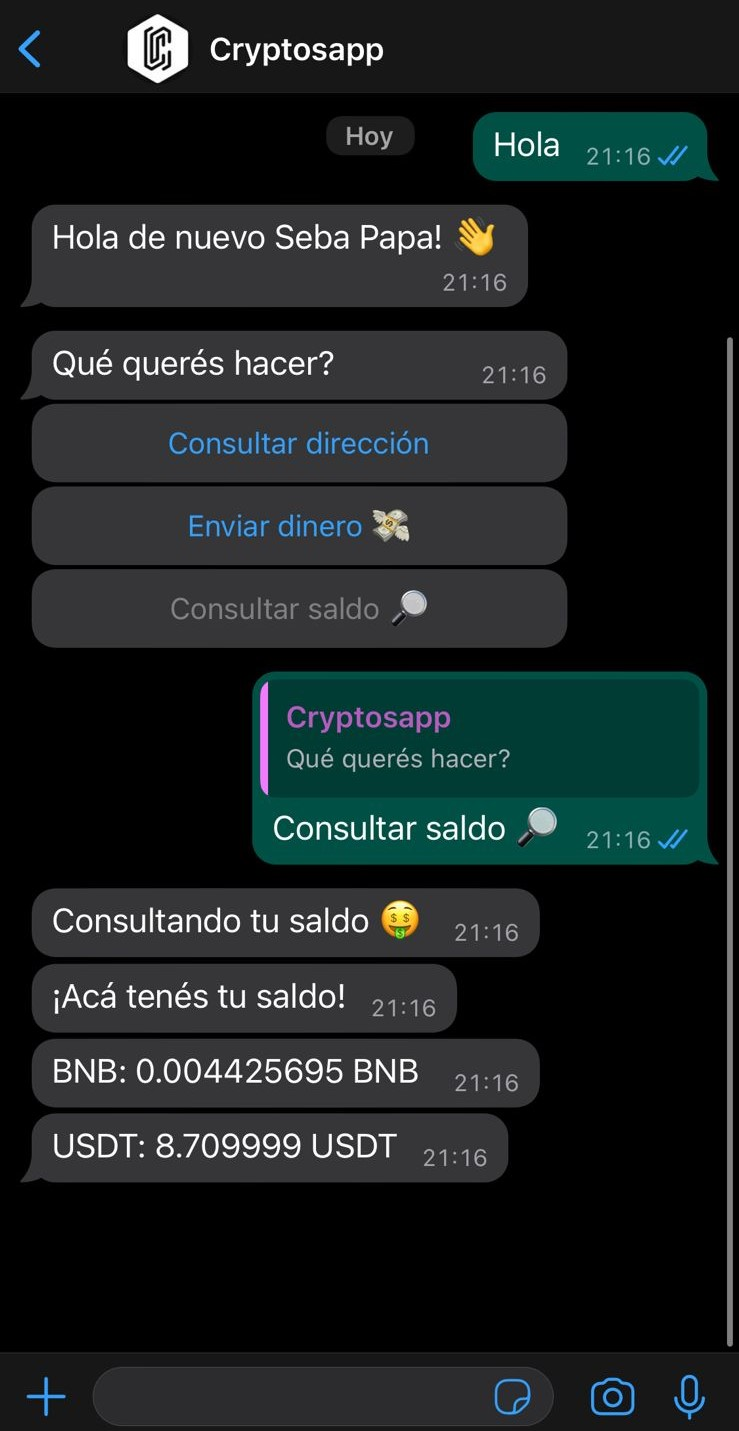
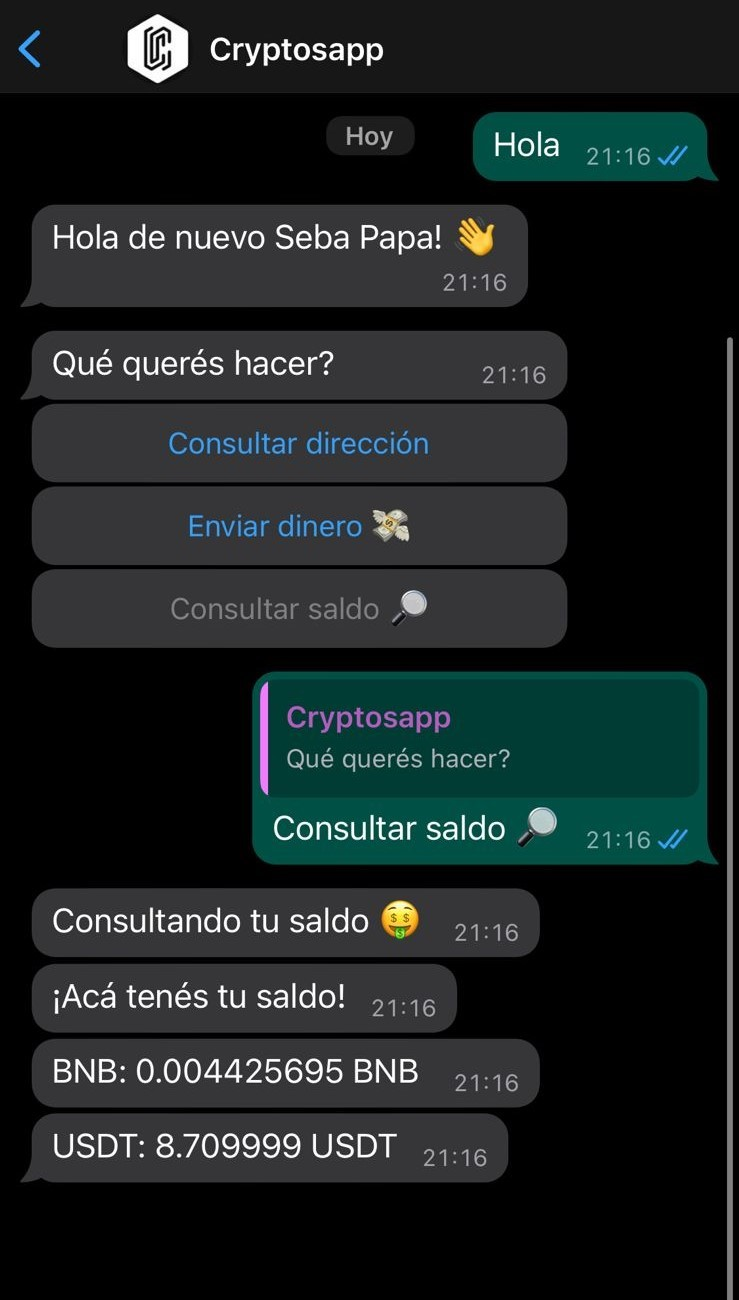
cropping app-screen.jpg adding QR-scan-me.png showing button of index

diff --git a/themes/default/index.html b/themes/default/index.html
@@ -31,11 +31,7 @@
             </a>
 
             {% if site.app.android_id %}
-            <a
-              class="download-btn btn btn-lg"
-              href="https://api.whatsapp.com/send?phone=5491173603358&text=Cuentame">
-              <i class="fa fa-android fa-lg" aria-hidden="true"></i> Google Play
-            </a>
+            <img src="/images/QR-scan-me.png" alt="" srcset="">
             {% endif %}
           </div>
         </div>
